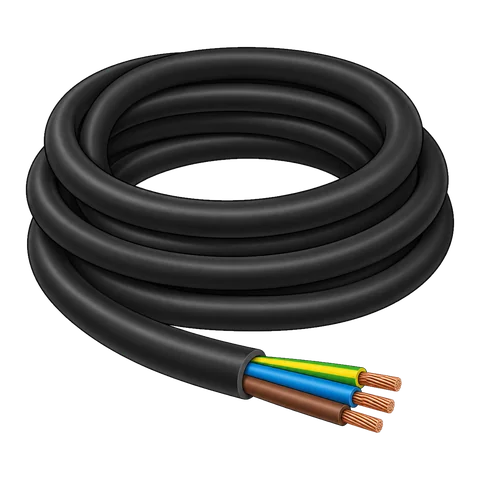
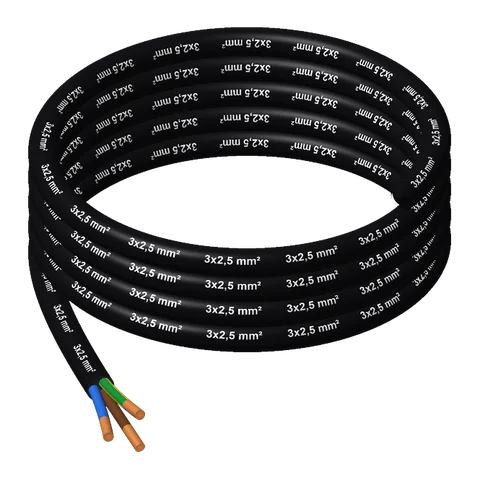
Einkaufsliste: Mantelleitung 3x2,5 mm² im gleichen Maßstab, Aufdruck entlang des Mantels
Adern nach Kupferquerschnitt wie die Einzeladern, Mantel = Bündel aus drei Adern + Mantelwand
(Dicke rel. 0,44 zum 95-mm²-Kabel), am Ende braune, blaue und grün/gelbe Ader mit blankem Kupfer.

diff --git a/einkaufsliste.html b/einkaufsliste.html
@@ -114,7 +114,7 @@
         <div class="wrap">
           <h2>Kabel</h2><p class="gruppe-text">Querschnitte wie im Plan angegeben. Rot für Plus, Schwarz für Minus.</p>
           <div class="teile-grid">
-            <article class="teil" id="lf0399355"><div class="teil-bild"><img src="assets/teile/lf0399355.webp?v=95dff23f" alt="Kabel 1,5 mm² D+ Leitung (Symbolbild)" width="480" height="480" loading="lazy"><span>Symbolbild</span></div><h3>Kabel 1,5 mm² D+ Leitung</h3><a class="product-btn" href="/go/lf0399355/amazon" target="_blank" rel="sponsored noopener">Bei Amazon ansehen*</a></article><article class="teil" id="lcfac3a72"><div class="teil-bild"><img src="assets/teile/lcfac3a72.webp?v=95d37fe2" alt="Kabel 3x2,5 mm² Leitung (Symbolbild)" width="480" height="480" loading="lazy"><span>Symbolbild</span></div><h3>Kabel 3x2,5 mm² Leitung</h3><a class="product-btn" href="/go/lcfac3a72/amazon" target="_blank" rel="sponsored noopener">Bei Amazon ansehen*</a></article><article class="teil" id="led389ad4"><div class="teil-bild"><img src="assets/teile/led389ad4.webp?v=b8f8a568" alt="Kabel 4 mm² rot (Symbolbild)" width="480" height="480" loading="lazy"><span>Symbolbild</span></div><h3>Kabel 4 mm² rot</h3><a class="product-btn" href="/go/led389ad4/amazon" target="_blank" rel="sponsored noopener">Bei Amazon ansehen*</a></article><article class="teil" id="l26faf61c"><div class="teil-bild"><img src="assets/teile/l26faf61c.webp?v=6f6393ad" alt="Kabel 4 mm² schwarz (Symbolbild)" width="480" height="480" loading="lazy"><span>Symbolbild</span></div><h3>Kabel 4 mm² schwarz</h3><a class="product-btn" href="/go/l26faf61c/amazon" target="_blank" rel="sponsored noopener">Bei Amazon ansehen*</a></article><article class="teil" id="ld71281d9"><div class="teil-bild"><img src="assets/teile/ld71281d9.webp?v=adb2b2ae" alt="Kabel 4 mm² Solarkabel rot/schwarz (Symbolbild)" width="480" height="480" loading="lazy"><span>Symbolbild</span></div><h3>Kabel 4 mm² Solarkabel rot/schwarz</h3><a class="product-btn" href="/go/ld71281d9/amazon" target="_blank" rel="sponsored noopener">Bei Amazon ansehen*</a></article><article class="teil" id="lf2e2b438"><div class="teil-bild"><img src="assets/teile/lf2e2b438.webp?v=f31e7be3" alt="Kabel 6 mm² grün/gelb (Symbolbild)" width="480" height="480" loading="lazy"><span>Symbolbild</span></div><h3>Kabel 6 mm² grün/gelb</h3><a class="product-btn" href="/go/lf2e2b438/amazon" target="_blank" rel="sponsored noopener">Bei Amazon ansehen*</a></article><article class="teil" id="l64186eaa"><div class="teil-bild"><img src="assets/teile/l64186eaa.webp?v=2b7c8a00" alt="Kabel 6 mm² rot (Symbolbild)" width="480" height="480" loading="lazy"><span>Symbolbild</span></div><h3>Kabel 6 mm² rot</h3><a class="product-btn" href="/go/l64186eaa/amazon" target="_blank" rel="sponsored noopener">Bei Amazon ansehen*</a></article><article class="teil" id="l3e218847"><div class="teil-bild"><img src="assets/teile/l3e218847.webp?v=609ffc8e" alt="Kabel 6 mm² schwarz (Symbolbild)" width="480" height="480" loading="lazy"><span>Symbolbild</span></div><h3>Kabel 6 mm² schwarz</h3><a class="product-btn" href="/go/l3e218847/amazon" target="_blank" rel="sponsored noopener">Bei Amazon ansehen*</a></article><article class="teil" id="ldb46eb7e"><div class="teil-bild"><img src="assets/teile/ldb46eb7e.webp?v=b5eac163" alt="Kabel 16 mm² rot (Symbolbild)" width="480" height="480" loading="lazy"><span>Symbolbild</span></div><h3>Kabel 16 mm² rot</h3><a class="product-btn" href="/go/ldb46eb7e/amazon" target="_blank" rel="sponsored noopener">Bei Amazon ansehen*</a></article><article class="teil" id="l4f5eabbb"><div class="teil-bild"><img src="assets/teile/l4f5eabbb.webp?v=fb033052" alt="Kabel 16 mm² schwarz (Symbolbild)" width="480" height="480" loading="lazy"><span>Symbolbild</span></div><h3>Kabel 16 mm² schwarz</h3><a class="product-btn" href="/go/l4f5eabbb/amazon" target="_blank" rel="sponsored noopener">Bei Amazon ansehen*</a></article><article class="teil" id="l1732f102"><div class="teil-bild"><img src="assets/teile/l1732f102.webp?v=311a115b" alt="Kabel 25 mm² rot (Symbolbild)" width="480" height="480" loading="lazy"><span>Symbolbild</span></div><h3>Kabel 25 mm² rot</h3><a class="product-btn" href="/go/l1732f102/amazon" target="_blank" rel="sponsored noopener">Bei Amazon ansehen*</a></article><article class="teil" id="lb9239d2a"><div class="teil-bild"><img src="assets/teile/lb9239d2a.webp?v=8cfe4eda" alt="Kabel 25 mm² schwarz (Symbolbild)" width="480" height="480" loading="lazy"><span>Symbolbild</span></div><h3>Kabel 25 mm² schwarz</h3><a class="product-btn" href="/go/lb9239d2a/amazon" target="_blank" rel="sponsored noopener">Bei Amazon ansehen*</a></article><article class="teil" id="l63e70641"><div class="teil-bild"><img src="assets/teile/l63e70641.webp?v=d2238344" alt="Kabel 35 mm² rot (Symbolbild)" width="480" height="480" loading="lazy"><span>Symbolbild</span></div><h3>Kabel 35 mm² rot</h3><a class="product-btn" href="/go/l63e70641/amazon" target="_blank" rel="sponsored noopener">Bei Amazon ansehen*</a></article><article class="teil" id="l79b5dc30"><div class="teil-bild"><img src="assets/teile/l79b5dc30.webp?v=2d52f716" alt="Kabel 35 mm² schwarz (Symbolbild)" width="480" height="480" loading="lazy"><span>Symbolbild</span></div><h3>Kabel 35 mm² schwarz</h3><a class="product-btn" href="/go/l79b5dc30/amazon" target="_blank" rel="sponsored noopener">Bei Amazon ansehen*</a></article><article class="teil" id="l782c40e9"><div class="teil-bild"><img src="assets/teile/l782c40e9.webp?v=9d58ff45" alt="Kabel 70 mm² rot (Symbolbild)" width="480" height="480" loading="lazy"><span>Symbolbild</span></div><h3>Kabel 70 mm² rot</h3><a class="product-btn" href="/go/l782c40e9/amazon" target="_blank" rel="sponsored noopener">Bei Amazon ansehen*</a></article><article class="teil" id="l4ee3f033"><div class="teil-bild"><img src="assets/teile/l4ee3f033.webp?v=d798a8de" alt="Kabel 70 mm² schwarz (Symbolbild)" width="480" height="480" loading="lazy"><span>Symbolbild</span></div><h3>Kabel 70 mm² schwarz</h3><a class="product-btn" href="/go/l4ee3f033/amazon" target="_blank" rel="sponsored noopener">Bei Amazon ansehen*</a></article><article class="teil" id="ld0e943eb"><div class="teil-bild"><img src="assets/teile/ld0e943eb.webp?v=78083894" alt="Kabel 95 mm² SGX rot (Symbolbild)" width="480" height="480" loading="lazy"><span>Symbolbild</span></div><h3>Kabel 95 mm² SGX rot</h3><a class="product-btn" href="/go/ld0e943eb/amazon" target="_blank" rel="sponsored noopener">Bei Amazon ansehen*</a></article><article class="teil" id="la26bf2cd"><div class="teil-bild"><img src="assets/teile/la26bf2cd.webp?v=7bd3e5aa" alt="Kabel 95 mm² SGX schwarz (Symbolbild)" width="480" height="480" loading="lazy"><span>Symbolbild</span></div><h3>Kabel 95 mm² SGX schwarz</h3><a class="product-btn" href="/go/la26bf2cd/amazon" target="_blank" rel="sponsored noopener">Bei Amazon ansehen*</a></article>
+            <article class="teil" id="lf0399355"><div class="teil-bild"><img src="assets/teile/lf0399355.webp?v=95dff23f" alt="Kabel 1,5 mm² D+ Leitung (Symbolbild)" width="480" height="480" loading="lazy"><span>Symbolbild</span></div><h3>Kabel 1,5 mm² D+ Leitung</h3><a class="product-btn" href="/go/lf0399355/amazon" target="_blank" rel="sponsored noopener">Bei Amazon ansehen*</a></article><article class="teil" id="lcfac3a72"><div class="teil-bild"><img src="assets/teile/lcfac3a72.webp?v=edcf3bbc" alt="Kabel 3x2,5 mm² Leitung (Symbolbild)" width="480" height="480" loading="lazy"><span>Symbolbild</span></div><h3>Kabel 3x2,5 mm² Leitung</h3><a class="product-btn" href="/go/lcfac3a72/amazon" target="_blank" rel="sponsored noopener">Bei Amazon ansehen*</a></article><article class="teil" id="led389ad4"><div class="teil-bild"><img src="assets/teile/led389ad4.webp?v=b8f8a568" alt="Kabel 4 mm² rot (Symbolbild)" width="480" height="480" loading="lazy"><span>Symbolbild</span></div><h3>Kabel 4 mm² rot</h3><a class="product-btn" href="/go/led389ad4/amazon" target="_blank" rel="sponsored noopener">Bei Amazon ansehen*</a></article><article class="teil" id="l26faf61c"><div class="teil-bild"><img src="assets/teile/l26faf61c.webp?v=6f6393ad" alt="Kabel 4 mm² schwarz (Symbolbild)" width="480" height="480" loading="lazy"><span>Symbolbild</span></div><h3>Kabel 4 mm² schwarz</h3><a class="product-btn" href="/go/l26faf61c/amazon" target="_blank" rel="sponsored noopener">Bei Amazon ansehen*</a></article><article class="teil" id="ld71281d9"><div class="teil-bild"><img src="assets/teile/ld71281d9.webp?v=adb2b2ae" alt="Kabel 4 mm² Solarkabel rot/schwarz (Symbolbild)" width="480" height="480" loading="lazy"><span>Symbolbild</span></div><h3>Kabel 4 mm² Solarkabel rot/schwarz</h3><a class="product-btn" href="/go/ld71281d9/amazon" target="_blank" rel="sponsored noopener">Bei Amazon ansehen*</a></article><article class="teil" id="lf2e2b438"><div class="teil-bild"><img src="assets/teile/lf2e2b438.webp?v=f31e7be3" alt="Kabel 6 mm² grün/gelb (Symbolbild)" width="480" height="480" loading="lazy"><span>Symbolbild</span></div><h3>Kabel 6 mm² grün/gelb</h3><a class="product-btn" href="/go/lf2e2b438/amazon" target="_blank" rel="sponsored noopener">Bei Amazon ansehen*</a></article><article class="teil" id="l64186eaa"><div class="teil-bild"><img src="assets/teile/l64186eaa.webp?v=2b7c8a00" alt="Kabel 6 mm² rot (Symbolbild)" width="480" height="480" loading="lazy"><span>Symbolbild</span></div><h3>Kabel 6 mm² rot</h3><a class="product-btn" href="/go/l64186eaa/amazon" target="_blank" rel="sponsored noopener">Bei Amazon ansehen*</a></article><article class="teil" id="l3e218847"><div class="teil-bild"><img src="assets/teile/l3e218847.webp?v=609ffc8e" alt="Kabel 6 mm² schwarz (Symbolbild)" width="480" height="480" loading="lazy"><span>Symbolbild</span></div><h3>Kabel 6 mm² schwarz</h3><a class="product-btn" href="/go/l3e218847/amazon" target="_blank" rel="sponsored noopener">Bei Amazon ansehen*</a></article><article class="teil" id="ldb46eb7e"><div class="teil-bild"><img src="assets/teile/ldb46eb7e.webp?v=b5eac163" alt="Kabel 16 mm² rot (Symbolbild)" width="480" height="480" loading="lazy"><span>Symbolbild</span></div><h3>Kabel 16 mm² rot</h3><a class="product-btn" href="/go/ldb46eb7e/amazon" target="_blank" rel="sponsored noopener">Bei Amazon ansehen*</a></article><article class="teil" id="l4f5eabbb"><div class="teil-bild"><img src="assets/teile/l4f5eabbb.webp?v=fb033052" alt="Kabel 16 mm² schwarz (Symbolbild)" width="480" height="480" loading="lazy"><span>Symbolbild</span></div><h3>Kabel 16 mm² schwarz</h3><a class="product-btn" href="/go/l4f5eabbb/amazon" target="_blank" rel="sponsored noopener">Bei Amazon ansehen*</a></article><article class="teil" id="l1732f102"><div class="teil-bild"><img src="assets/teile/l1732f102.webp?v=311a115b" alt="Kabel 25 mm² rot (Symbolbild)" width="480" height="480" loading="lazy"><span>Symbolbild</span></div><h3>Kabel 25 mm² rot</h3><a class="product-btn" href="/go/l1732f102/amazon" target="_blank" rel="sponsored noopener">Bei Amazon ansehen*</a></article><article class="teil" id="lb9239d2a"><div class="teil-bild"><img src="assets/teile/lb9239d2a.webp?v=8cfe4eda" alt="Kabel 25 mm² schwarz (Symbolbild)" width="480" height="480" loading="lazy"><span>Symbolbild</span></div><h3>Kabel 25 mm² schwarz</h3><a class="product-btn" href="/go/lb9239d2a/amazon" target="_blank" rel="sponsored noopener">Bei Amazon ansehen*</a></article><article class="teil" id="l63e70641"><div class="teil-bild"><img src="assets/teile/l63e70641.webp?v=d2238344" alt="Kabel 35 mm² rot (Symbolbild)" width="480" height="480" loading="lazy"><span>Symbolbild</span></div><h3>Kabel 35 mm² rot</h3><a class="product-btn" href="/go/l63e70641/amazon" target="_blank" rel="sponsored noopener">Bei Amazon ansehen*</a></article><article class="teil" id="l79b5dc30"><div class="teil-bild"><img src="assets/teile/l79b5dc30.webp?v=2d52f716" alt="Kabel 35 mm² schwarz (Symbolbild)" width="480" height="480" loading="lazy"><span>Symbolbild</span></div><h3>Kabel 35 mm² schwarz</h3><a class="product-btn" href="/go/l79b5dc30/amazon" target="_blank" rel="sponsored noopener">Bei Amazon ansehen*</a></article><article class="teil" id="l782c40e9"><div class="teil-bild"><img src="assets/teile/l782c40e9.webp?v=9d58ff45" alt="Kabel 70 mm² rot (Symbolbild)" width="480" height="480" loading="lazy"><span>Symbolbild</span></div><h3>Kabel 70 mm² rot</h3><a class="product-btn" href="/go/l782c40e9/amazon" target="_blank" rel="sponsored noopener">Bei Amazon ansehen*</a></article><article class="teil" id="l4ee3f033"><div class="teil-bild"><img src="assets/teile/l4ee3f033.webp?v=d798a8de" alt="Kabel 70 mm² schwarz (Symbolbild)" width="480" height="480" loading="lazy"><span>Symbolbild</span></div><h3>Kabel 70 mm² schwarz</h3><a class="product-btn" href="/go/l4ee3f033/amazon" target="_blank" rel="sponsored noopener">Bei Amazon ansehen*</a></article><article class="teil" id="ld0e943eb"><div class="teil-bild"><img src="assets/teile/ld0e943eb.webp?v=78083894" alt="Kabel 95 mm² SGX rot (Symbolbild)" width="480" height="480" loading="lazy"><span>Symbolbild</span></div><h3>Kabel 95 mm² SGX rot</h3><a class="product-btn" href="/go/ld0e943eb/amazon" target="_blank" rel="sponsored noopener">Bei Amazon ansehen*</a></article><article class="teil" id="la26bf2cd"><div class="teil-bild"><img src="assets/teile/la26bf2cd.webp?v=7bd3e5aa" alt="Kabel 95 mm² SGX schwarz (Symbolbild)" width="480" height="480" loading="lazy"><span>Symbolbild</span></div><h3>Kabel 95 mm² SGX schwarz</h3><a class="product-btn" href="/go/la26bf2cd/amazon" target="_blank" rel="sponsored noopener">Bei Amazon ansehen*</a></article>
           </div>
         </div>
       </section>
